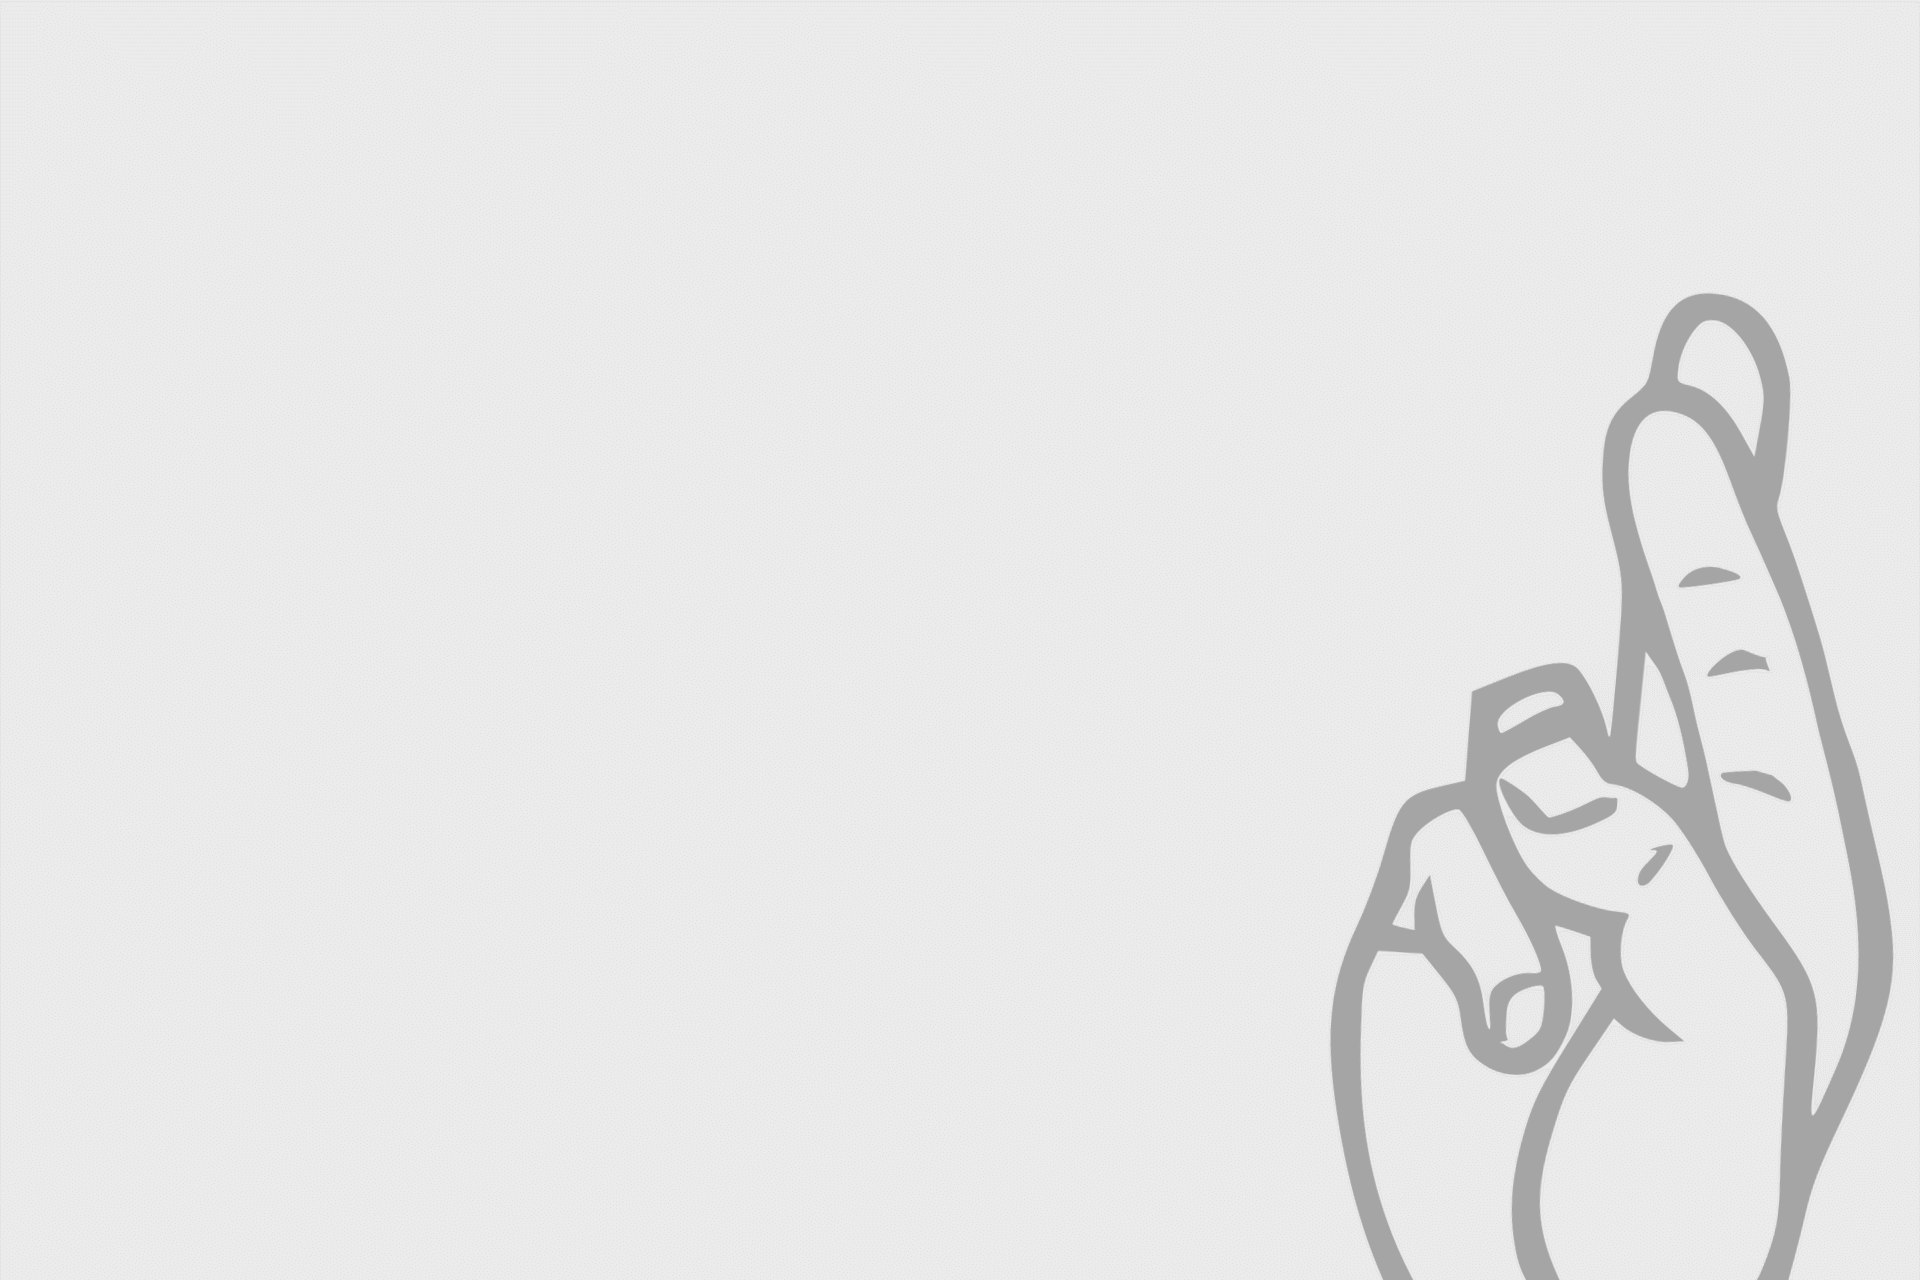
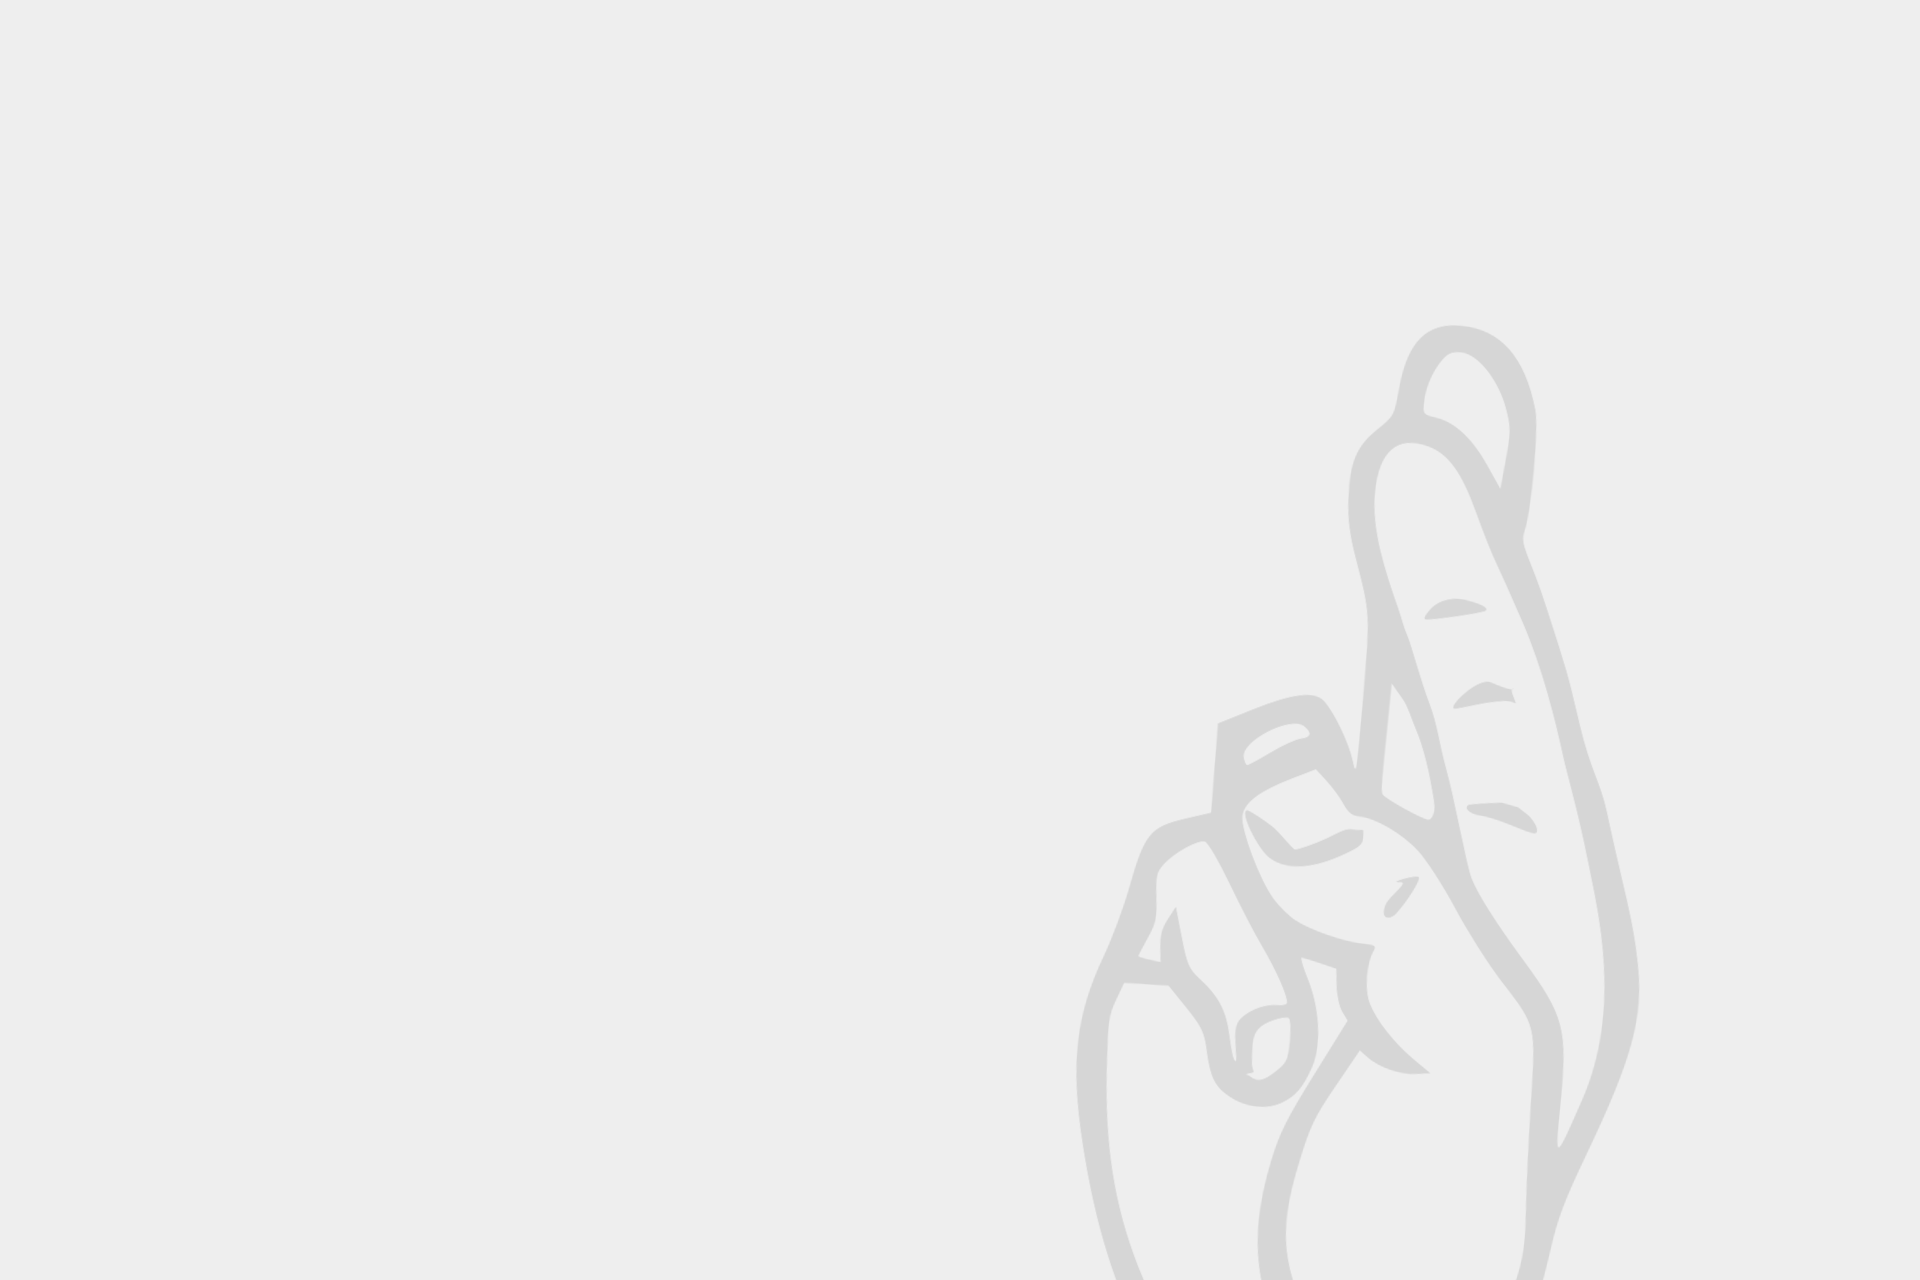
Background improvements

Changed region(s): [[0.6875, 0.2188, 1.0, 1.0]]

diff --git a/static/css/styles.css b/static/css/styles.css
@@ -225,10 +225,12 @@ a:hover {
 
 **********************************************************************/
 #head {
-  background: #f4f4f4 url(../images/background.png) top center;
-  background-size: cover;
   color: #7C7C7C;
   padding: 30px 0 35px 0;
+  background: #ececec url(../images/background.png);
+  background-position: bottom right !important;
+  background-repeat: no-repeat;
+  background-size: contain;
 }
 #head img.img-circle {
   display: block;
